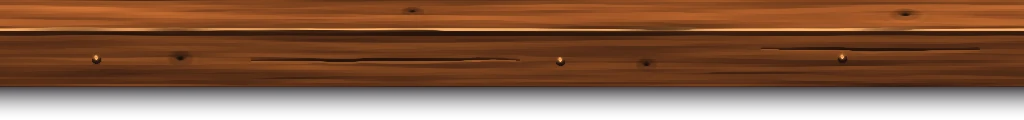
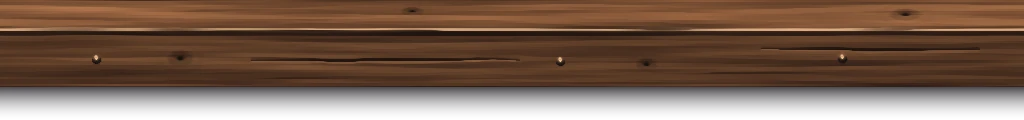
UI pass, round 5 KIDS' PLACES (GORSE): the shelves are built
Both Kids' shelves read as a strip laid over the wall: a plank cut square at
each end, its lit end a saturated orange block, its shadow stopping dead.

- tools/prep_kids_boards.py paints a corbel (plank-corbel*.webp): the sawn
  block a plank stands on, its bottom corners cut off, nailed to the wall,
  its shadow thrown to the lower right; and re-lights plank-warm under a
  candle no more saturated than the samples' own candle-lit wood (0.57).
- kit.css TIMBER gains .kit-corbel, and .kit-plank--ends: ink down each
  sawn end and the plank's shadow thrown past its right end.
- Treehouse: a corbel under each end of the stage's plank, set in past the
  foot's enamel buttons so a toe never crowds their filigree.
- Headquarters: the Kids' shelf stands on corbels; the props fill the shelf
  and the lantern is set down on the plank rather than hovering over it;
  the plank and corbels inherit the shelf's measures (the kit's defaults had
  drawn the plank at 44px while its props were placed for 33px); the column
  gives back the Log's deep foot padding, so Plan the Expedition stands level
  with the board's frame instead of across the board's gold rule; the bulbs'
  wire catches their light as the Treehouse's does.

diff --git a/game/src/scenes/clubhouse.css b/game/src/scenes/clubhouse.css
@@ -105,6 +105,12 @@
 /* a string of bulbs pinned along the top of the wall, sagging between the
    corner candles and behind the sign */
 .cl-lights { left: calc(var(--cl-corner) * .72); right: calc(var(--cl-corner) * .72); top: -2px; z-index: 2; --sag: clamp(26px, 4.4vh, 40px); }
+/* the wire catches the bulbs' own light along its top, as the Treehouse's does,
+   so the string reads as a string and the bulbs never float */
+.cl-lights::before {
+  border-bottom-color: rgba(104, 76, 54, .95);
+  filter: drop-shadow(0 1px 0 rgba(0, 0, 0, .7)) drop-shadow(0 -1px 1px rgba(255, 200, 130, .28));
+}
 
 /* night outside the lamps' reach: the wall's far edges fall into the same
    aubergine dark every board in the house stands in */
@@ -684,7 +690,7 @@
   top: calc(var(--cl-top) - var(--cl-carve) + clamp(12px, 1.8vh, 16px));
   bottom: calc(var(--cl-bot) - var(--cl-carve));
   right: var(--cl-r); width: var(--side-w);
-  display: flex; flex-direction: column; gap: clamp(16px, 2.3vh, 22px);
+  display: flex; flex-direction: column; gap: clamp(12px, 1.8vh, 17px);
   z-index: 5;
 }
 
@@ -694,7 +700,7 @@
    label or figure lies on an ornament. */
 .chalk {
   --pk: .72;
-  padding: clamp(24px, 3.2vh, 30px) clamp(24px, 2vw, 30px) clamp(36px, 4.4vh, 40px);
+  padding: clamp(24px, 3.2vh, 30px) clamp(24px, 2vw, 30px) clamp(29px, 3.5vh, 32px);
 }
 .chalk__h { margin: 0 0 clamp(6px, 1vh, 10px); font-size: clamp(12.5px, .9vw, 14px); }
 .chalk__dl { row-gap: clamp(2px, .55vh, 6px); }
@@ -749,36 +755,50 @@
    whatever height the column leaves; the props are sized off that height so
    they never stand taller than the wall they stand against. */
 .cl-shelf {
-  --plank-h: clamp(28px, 3.7vh, 36px);
+  --plank-h: clamp(36px, 4.6vh, 44px);
+  --corbel-w: calc(var(--plank-h) * 1.02);
   --shelf-foot: calc(var(--plank-h) * 120 / 84);       /* the plank element's own height */
-  --stand: calc(var(--shelf-foot) - var(--plank-h) * .16);  /* where a foot rests, from the bottom */
+  /* the plank stands high enough in the shelf's box that its corbels' toes
+     reach no more than 8px past it, into the gap over the way in */
+  --shelf-lift: max(0px, calc(var(--corbel-w) * 64 / 72 - var(--plank-h) * 36 / 84 - 8px));
+  --stand: calc(var(--shelf-lift) + var(--shelf-foot) - var(--plank-h) * .16);  /* where a foot rests, from the bottom */
   position: relative;
-  flex: 1 1 auto; min-height: clamp(104px, 14.4vh, 136px);
+  flex: 1 1 auto; min-height: clamp(118px, 15.6vh, 146px);
   margin-inline: calc(-1 * clamp(4px, .5vw, 8px));
   container-type: size;
 }
-.cl-shelf__plank { position: absolute; left: 0; right: 0; bottom: 0; --plank-l1: 26%; --plank-l2: 50%; --plank-l3: 80%; --plank-reach: 58%; }
+/* the plank and its corbels take the shelf's measures (the kit gives each its
+   own default, which would otherwise win over the inherited one) */
+.cl-shelf__plank { position: absolute; left: 0; right: 0; bottom: var(--shelf-lift); z-index: 1; --plank-h: inherit; --plank-l1: 26%; --plank-l2: 50%; --plank-l3: 80%; --plank-reach: 58%; }
+/* the corbels under the plank's two ends, behind it, heads hidden by its face */
+.cl-shelf__corbel {
+  --corbel-w: inherit;
+  z-index: 0;
+  top: calc(100% - var(--shelf-lift) - var(--plank-h) * 36 / 84 - var(--corbel-w) * 22 / 72 - 1px);
+}
+.cl-shelf__corbel--l { left: calc(var(--plank-h) * .55); --corbel-lit: .3; }
+.cl-shelf__corbel--r { right: calc(var(--plank-h) * .55); --corbel-lit: .42; }
 .cl-shelf__skull {
-  width: min(clamp(52px, 4.4vw, 70px), calc((100cqh - var(--stand)) * .8 * 130 / 153));
+  width: min(clamp(52px, 4.4vw, 72px), calc((100cqh - var(--stand)) * .96 * 130 / 153));
   left: 7%; bottom: calc(var(--stand) - 2px);
   z-index: 2;
 }
 .cl-shelf__candle {
-  width: min(clamp(38px, 3.2vw, 50px), calc((100cqh - var(--stand)) * .82 * 106 / 164));
+  width: min(clamp(38px, 3.2vw, 52px), calc((100cqh - var(--stand)) * .92 * 106 / 164));
   right: 9%; bottom: calc(var(--stand) - 2px);
   z-index: 2;
 }
-/* the lantern on its hook over the middle of the plank, its foot clear of it */
+/* the lantern set down on the middle of the plank */
 .cl-shelf__lantern {
-  --lantern-w: min(clamp(46px, 3.9vw, 62px), calc((100cqh - var(--stand) - 6px) * 200 / 420));
-  left: calc(50% - var(--lantern-w) / 2); bottom: calc(var(--stand) + 4px);
+  --lantern-w: min(clamp(46px, 3.9vw, 62px), calc((100cqh - var(--stand)) * .98 * 200 / 420));
+  left: calc(50% - var(--lantern-w) / 2); bottom: calc(var(--stand) - 3px);
   z-index: 1;
 }
 .cl-shelf__pool { --light-a: 20%; width: 150%; left: 50%; top: 58%; z-index: 0; }
 /* the motto on a slip tacked along the plank's front face */
 .cl-quote {
   position: absolute; z-index: 3;
-  left: 50%; bottom: calc(var(--shelf-foot) - var(--plank-h) * .92);
+  left: 50%; bottom: calc(var(--shelf-lift) + var(--shelf-foot) - var(--plank-h) * .92);
   translate: -50% 50%;
   width: max-content; max-width: 92%;
   margin: 0;
@@ -805,7 +825,7 @@
   flex-direction: column; gap: 4px;
   align-self: stretch;
   margin-right: calc(var(--plate-h) * .7);
-  min-height: calc(var(--plate-h) * 1.44);
+  min-height: calc(var(--plate-h) * 1.34);
   padding: 12px calc(var(--plate-h) * 1.14) 13px calc(var(--plate-h) * .36);
   line-height: 1.12;
   text-align: center;

diff --git a/game/src/ui/kit.css b/game/src/ui/kit.css
@@ -2397,6 +2397,12 @@ button.kit-medallion:hover, button.kit-medallion:focus-visible,
                       boughs against the stars) or --moon (the sky with the
                       moon); --case-w sizes it. Its cold light blooms on the
                       wall round it; point a moon slot of the ground at it too
+     .kit-corbel      the sawn block a .kit-plank stands on, nailed to the wall
+                      under each of its ends so the plank reads as a shelf that
+                      was built, not a strip laid over the wall: --corbel-w
+                      sizes it, --corbel-lit (0-1) is the candle light on it.
+                      Stand it BEHIND its plank, its head hidden by the plank's
+                      front face (see the section's note)
    =========================================================================== */
 
 /* ── stud ── */
@@ -2518,3 +2524,36 @@ button.kit-medallion:hover, button.kit-medallion:focus-visible,
   mix-blend-mode: screen;
 }
 .kit-board.has-backdrop .kit-casement { display: none; }
+
+/* ── corbel ──
+   plank-corbel.webp / plank-corbel-warm.webp are 72x112: the block's sides at
+   x 12-56, its head in rows 0-22 (hidden behind the plank's front face), the
+   sawn toe at row 86, and its shadow on the wall to the lower right. Its top
+   belongs --corbel-w * 22 / 72 above the foot of the plank's front face, which
+   is --plank-h below the plank element's top. */
+.kit-corbel {
+  --corbel-w: 48px;
+  --corbel-lit: 0;
+  position: absolute; pointer-events: none;
+  width: var(--corbel-w); aspect-ratio: 72 / 112;
+  background: url("../../assets/ui/kit/plank-corbel.webp") 50% 0 / 100% 100% no-repeat;
+}
+.kit-corbel::after {
+  content: ''; position: absolute; inset: 0;
+  background: url("../../assets/ui/kit/plank-corbel-warm.webp") 50% 0 / 100% 100% no-repeat;
+  opacity: var(--corbel-lit);
+}
+/* A plank's sawn ends, drawn over its lit layer (z 1 in the plank's own
+   stacking context, so give the plank a z-index): the samples' ink down each
+   end, and the plank's shadow thrown past its right end, down and to the right,
+   the way the boards' top-left light throws every shadow. --plank-shade is how
+   far past the end that shadow reaches. */
+.kit-plank--ends { --plank-shade: calc(var(--plank-h) * .7); }
+.kit-plank--ends::before {
+  content: ''; position: absolute; z-index: 1; pointer-events: none;
+  left: 0; top: 0; bottom: 0; right: calc(-1 * var(--plank-shade));
+  background:
+    linear-gradient(90deg, rgba(12, 7, 5, .96), rgba(12, 7, 5, .5) 45%, transparent) 0 0 / 4px var(--plank-h) no-repeat,
+    linear-gradient(270deg, rgba(12, 7, 5, .96), rgba(12, 7, 5, .55) 45%, transparent) calc(100% - var(--plank-shade)) 0 / 5px var(--plank-h) no-repeat,
+    radial-gradient(100% 70% at 0% 62%, rgba(8, 5, 10, .8), rgba(8, 5, 10, .34) 50%, transparent 100%) 100% 0 / var(--plank-shade) 100% no-repeat;
+}

diff --git a/game/src/scenes/lobby.css b/game/src/scenes/lobby.css
@@ -210,7 +210,12 @@
    the skull clear of the frame's gilt corner, the candle in the gap under
    the lantern. The frame's foot rests a fifth of the way into the sill's top
    face; everything on the sill stands a little further forward on it. */
-.lo-view { --sill-h: clamp(36px, 4.2vh, 46px); --skull-w: clamp(58px, 5vw, 90px); --candle-w: clamp(44px, 3.6vw, 60px); }
+.lo-view {
+  --sill-h: clamp(36px, 4.2vh, 46px); --skull-w: clamp(58px, 5vw, 90px); --candle-w: clamp(44px, 3.6vw, 60px);
+  --lo-stage-x: calc(50vw - var(--lo-stage-w) / 2);      /* the window's left edge on the board */
+  --lo-edge-in: calc(clamp(8px, .7vw, 12px) + clamp(38px, 3.5vw, 60px) + 6px);
+  --lo-sill-top: calc(100% + 13px - var(--sill-h) * .17);
+}
 /* The plank the whole stage stands on, nailed along the wall under the window
    and the panel, from just inside the board's vine on the left to just inside
    it on the right (ui/kit.css .kit-plank). Hung from the window (which shares
@@ -221,16 +226,25 @@
 .lo-view__sill {
   position: absolute; z-index: 0;
   --plank-h: var(--sill-h);
-  --lo-stage-x: calc(50vw - var(--lo-stage-w) / 2);      /* the window's left edge on the board */
-  --lo-edge-in: calc(clamp(8px, .7vw, 12px) + clamp(38px, 3.5vw, 60px) + 6px);
   left: calc(var(--lo-edge-in) - var(--lo-stage-x));
   right: calc(var(--lo-edge-in) - (100vw - var(--lo-stage-x) - var(--lo-view-w)));
-  top: calc(100% + 13px - var(--sill-h) * .17);
+  top: var(--lo-sill-top);
   --plank-reach: clamp(340px, 30vw, 500px);
   --plank-l1: calc(var(--wl3-x) - var(--lo-edge-in));
   --plank-l2: calc(var(--wl6-x) - var(--lo-edge-in));
   --plank-l3: calc(var(--wl4-x) - var(--lo-edge-in) - var(--lo-card-w) * .1);
 }
+/* the plank's two corbels, set in from each end past the foot's two enamel
+   buttons so a toe never crowds their filigree, and behind the plank (the
+   stage's stacking layer, under the plank's z 0), their heads hidden by its
+   front face; the right one stands in the lantern's light */
+.lo-view__corbel {
+  --corbel-w: calc(var(--sill-h) * 1.6);
+  z-index: -1;
+  top: calc(var(--lo-sill-top) + var(--sill-h) - var(--corbel-w) * 22 / 72 - 1px);
+}
+.lo-view__corbel--l { left: calc(var(--lo-edge-in) - var(--lo-stage-x) + var(--sill-h) * 2.6); --corbel-lit: .1; }
+.lo-view__corbel--r { right: calc(var(--lo-edge-in) - (100vw - var(--lo-stage-x) - var(--lo-view-w)) + var(--sill-h) * 2.6); --corbel-lit: .7; }
 .lo-view__pic { z-index: 1; }
 .lo-view__skull { width: var(--skull-w); left: calc(var(--skull-w) * -1.1); bottom: calc(-13px - var(--sill-h) * .08); z-index: 6; }
 .lo-view__candle { width: var(--candle-w); right: calc(var(--lo-gap) * -.5 - var(--candle-w) / 2); bottom: calc(-13px - var(--sill-h) * .1); z-index: 6; }

diff --git a/game/src/scenes/clubhouse.js b/game/src/scenes/clubhouse.js
@@ -606,7 +606,9 @@ export class ClubhouseScene extends Scene {
       + '<i class="kit-lantern cl-shelf__lantern" aria-hidden="true"></i>'
       + '<i class="kit-prop kit-prop--skull cl-shelf__skull" aria-hidden="true"></i>'
       + '<i class="kit-prop kit-prop--candle cl-shelf__candle" aria-hidden="true"></i>'
-      + '<i class="kit-plank cl-shelf__plank" aria-hidden="true"></i>';
+      + '<i class="kit-corbel cl-shelf__corbel cl-shelf__corbel--l" aria-hidden="true"></i>'
+      + '<i class="kit-corbel cl-shelf__corbel cl-shelf__corbel--r" aria-hidden="true"></i>'
+      + '<i class="kit-plank kit-plank--ends cl-shelf__plank" aria-hidden="true"></i>';
     const quote = el('p', 'cl-quote kit-paper',
       '&ldquo;Get every animal out that wants to leave.&rdquo;'
       + '<i class="kit-pin cl-quote__pin cl-quote__pin--l" aria-hidden="true"></i>'

diff --git a/game/src/scenes/lobby.js b/game/src/scenes/lobby.js
@@ -121,7 +121,8 @@ function boardMarkup() {
  */
 function viewMarkup() {
   return `<figure class="lo-view" aria-hidden="true">
-      <i class="kit-plank lo-view__sill"></i>
+      <i class="kit-corbel lo-view__corbel lo-view__corbel--l"></i><i class="kit-corbel lo-view__corbel lo-view__corbel--r"></i>
+      <i class="kit-plank kit-plank--ends lo-view__sill"></i>
       <div class="lo-view__pic kit-frame kit-frame--over"><span class="lo-view__art" style="background-image:url('${menuArtSrc('menu')}')"></span></div>
       <i class="lo-view__medal"></i>
       <figcaption class="lo-view__plate kit-plate"><b class="kit-plate__name">The House</b><span class="kit-plate__epithet">somewhere out there in the dark</span></figcaption>

diff --git a/tools/prep_kids_boards.py b/tools/prep_kids_boards.py
@@ -35,6 +35,9 @@ Outputs (game/assets/ui/kit/):
         a treehouse window onto the night: a rough plank frame and a cross
         bar round old glass, and through it the sky over the grounds, stars,
         the moon, and the tree's own boughs in their bark   (.kit-casement)
+  plank-corbel.webp / plank-corbel-warm.webp
+        the sawn block a plank shelf stands on, its bottom corners cut off,
+        two nails through it, its shadow on the wall            (.kit-corbel)
 
     python tools/prep_kids_boards.py                 # everything
     python tools/prep_kids_boards.py --only plank    # one piece
@@ -185,8 +188,11 @@ def plank():
 
     dark = render(L_dark, (0.62, 0.55, 0.78), 0.34, 0.5, (40, 30, 50), (80, 62, 90), 0.35)
     dark = aubergine(dark, 0.5)
-    warm = render(L_warm, (1.0, 0.78, 0.54), 0.72, 1.35, (150, 100, 50), (255, 196, 120), 0.8)
+    # candle light, but no more saturated than the samples' own candle-lit
+    # wood and wax (about 0.5 in HSV): the plank is lit, not orange
+    warm = render(L_warm, (1.0, 0.87, 0.72), 0.66, 1.22, (150, 110, 70), (255, 206, 150), 0.7)
     warm = aubergine(warm, 0.18)
+    warm = warm * 0.8 + warm.mean(axis=2, keepdims=True) * 0.2
     # the shadow the plank throws on the wall under it: soft, deepest at its foot
     ys = np.clip((yy - PL_FOOT) / (H - PL_FOOT), 0, 1)
     shadow_a = np.where(yy >= PL_FOOT, (1 - ys) ** 1.8 * 0.72, 0.0)
@@ -740,12 +746,93 @@ def casements():
     casement_piece("casement-moon.webp", (1372, 0, 1672, 300), moon=(0.62, 0.34, 26), seed=42)
 
 
+# ═════════════════════════════════════════════════════════════════════════════
+# THE CORBEL
+# What a plank shelf stands on: a block of the same sawn timber nailed to the
+# wall under each end, its two bottom corners sawn off across the grain the way
+# a Kid squares one up. Seen straight on, lit from the boards' top left: its
+# arrises rounded, a check running down its grain, two nails through it into
+# the wall, and its shadow thrown on the wall to the lower right. Its head, above
+# CB_HEAD, is hidden behind the plank it carries.
+# ═════════════════════════════════════════════════════════════════════════════
+CB_W, CB_H = 72, 112
+CB_X0, CB_X1 = 12, 56          # the corbel's sides
+CB_HEAD = 22                   # the head, behind the plank's front face
+CB_SAW = 60                    # where the sawn-off corners begin
+CB_TOE = 86                    # the flat toe
+
+
+def corbel():
+    rng = np.random.default_rng(2718)
+    ss = 4
+    W, H = CB_W * ss, CB_H * ss
+    yy, xx = np.mgrid[0:H, 0:W].astype(np.float32) / ss
+    cx = (CB_X0 + CB_X1) / 2
+    half = (CB_X1 - CB_X0) / 2
+    # the silhouette: square sides, then both corners sawn off to a flat toe,
+    # each sawn line wandering a hair
+    t = np.clip((yy - CB_SAW) / (CB_TOE - CB_SAW), 0, 1)
+    wob = P.wob1d(H, rng, 18 * ss, 0.5)[:, None]
+    reach = half - t * half * 0.58 + wob * (yy > CB_HEAD)
+    body = (np.abs(xx - cx) <= reach) & (yy >= 0) & (yy <= CB_TOE)
+    kerf = body & (np.abs(yy - CB_HEAD) < 0.6)
+    d_in = ndimage.distance_transform_edt(body) / ss
+    # height: a bevelled block, its arrises rounded by hands and weather
+    hgt = np.where(body, np.clip(d_in / 3.2, 0, 1) ** 0.55 * 10, 0)
+    hgt = np.where(kerf, hgt - 3, hgt)
+    wood = timber_albedo(H, W, np.random.default_rng(77), "#4a3222", "#6e4d34", "#1f140c", vertical=True)
+    crack = checks(H, W, np.random.default_rng(78), 2, 60 * ss, along_x=False)
+    crack = crack * body * (xx > cx + 2) * (xx < cx + half * 0.6) * (yy > CB_HEAD + 30)
+    wood = wood * (1 - crack[..., None] * 0.8)
+    hgt = hgt - crack * 2.2
+    # two nails through it into the wall, just under the plank
+    nails = np.zeros((H, W), np.float32)
+    for nx, ny in ((cx - 8, CB_HEAD + 8), (cx + 7, CB_HEAD + 27)):
+        nd = np.hypot(xx - nx, yy - ny)
+        nails = np.maximum(nails, np.clip(1 - nd / 3.2, 0, 1))
+    head = nails > 0
+    hgt = np.where(head, hgt + np.sqrt(nails) * 3.0, hgt)
+    wood = np.where(head[..., None], ramp(nails, [(0, "#1c1410"), (0.55, "#4a3f38"), (1, "#948168")]), wood)
+    hg = ndimage.gaussian_filter(hgt, ss * 0.5)
+    n = normals(hg * ss, 0.9)
+    ink = M.ink_lines(hgt * ss, amount=0.5, thresh=1.4)
+    rim_ink = np.clip(1 - d_in / 1.3, 0, 1) * 0.72
+    # the right side turning away from the light
+    u = np.clip((xx - (cx - reach)) / np.maximum(reach * 2, 1e-3), 0, 1)
+    turn = 0.62 + 0.38 * (1 - u ** 1.6)
+
+    def render(L, colour, amb, gain, spec_amt, aub):
+        lam = lambert(n, L)
+        col = wood * np.asarray(colour, np.float32) * (amb + gain * lam)[..., None]
+        s = specular(n, L, power=12.0) * (0.25 + 0.75 * head) * spec_amt
+        col = col + s[..., None] * np.array([120, 96, 70], np.float32)
+        col = col * (turn * ink * (1 - rim_ink))[..., None]
+        col = np.where(kerf[..., None], col * 0.35, col)
+        return aubergine(col, aub)
+
+    L1 = np.array([-0.3, -0.55, 0.78], np.float32); L1 /= np.linalg.norm(L1)
+    L2 = np.array([-0.15, -0.8, 0.58], np.float32); L2 /= np.linalg.norm(L2)
+    dark = render(L1, (0.62, 0.55, 0.78), 0.34, 0.5, 0.3, 0.5)
+    warm = render(L2, (1.0, 0.87, 0.72), 0.6, 1.1, 0.8, 0.2)
+    # its shadow on the wall: the silhouette pushed to the lower right, softened
+    sh = ndimage.shift(body.astype(np.float32), (5 * ss, 6 * ss), order=0)
+    sh = ndimage.gaussian_filter(sh, 3.2 * ss) * 0.62
+    alpha = np.maximum(body.astype(np.float32), sh * (1 - body))
+    for img, name in ((dark, "plank-corbel.webp"), (warm, "plank-corbel-warm.webp")):
+        img = np.where(body[..., None], img, np.array([10, 6, 12], np.float32))
+        rgba = np.dstack([np.clip(img, 0, 255), alpha * 255])
+        small = down(rgba, ss)
+        rgb = P.kuwahara(small[..., :3], radius=1, sectors=8, q=8.0)
+        save(np.dstack([np.clip(rgb, 0, 255), small[..., 3]]), name, 90)
+
+
 PIECES = {
     "plank": plank,
     "newsclip": newsclip,
     "hideout": hideout,
     "trunk": trunk,
     "casements": casements,
+    "corbel": corbel,
 }
 
 
